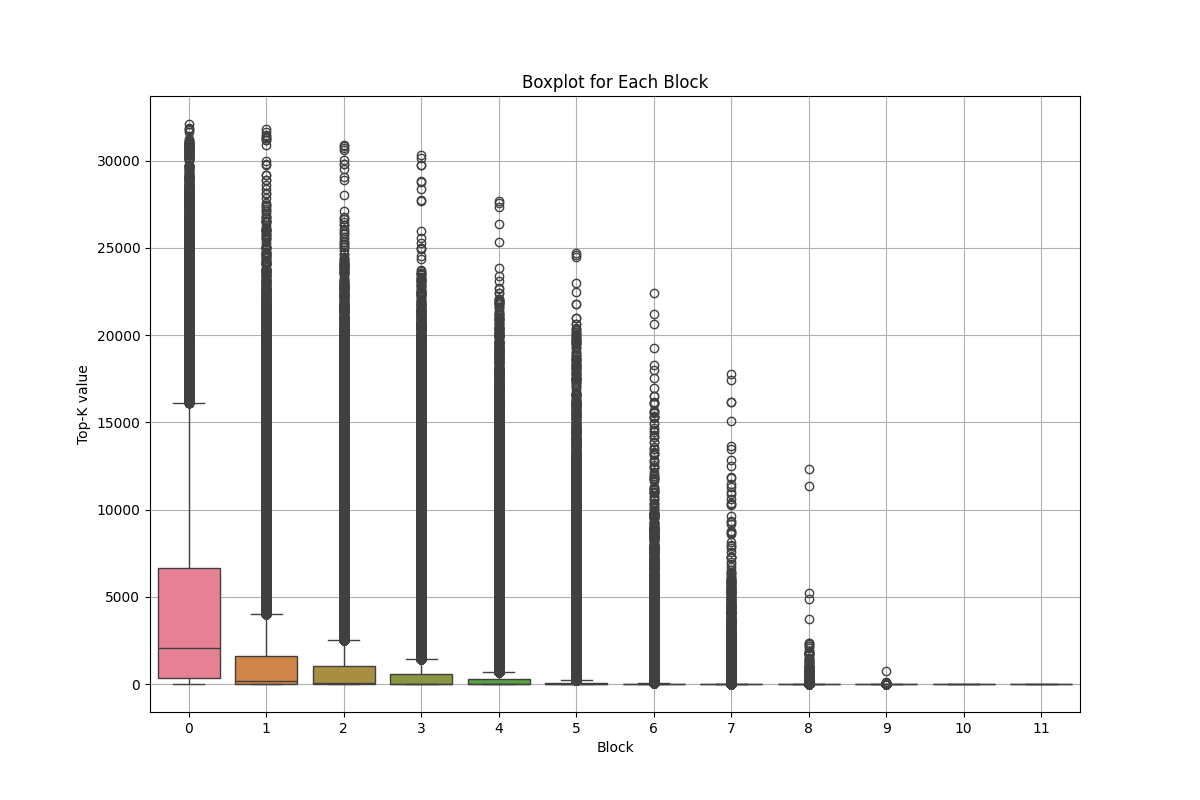
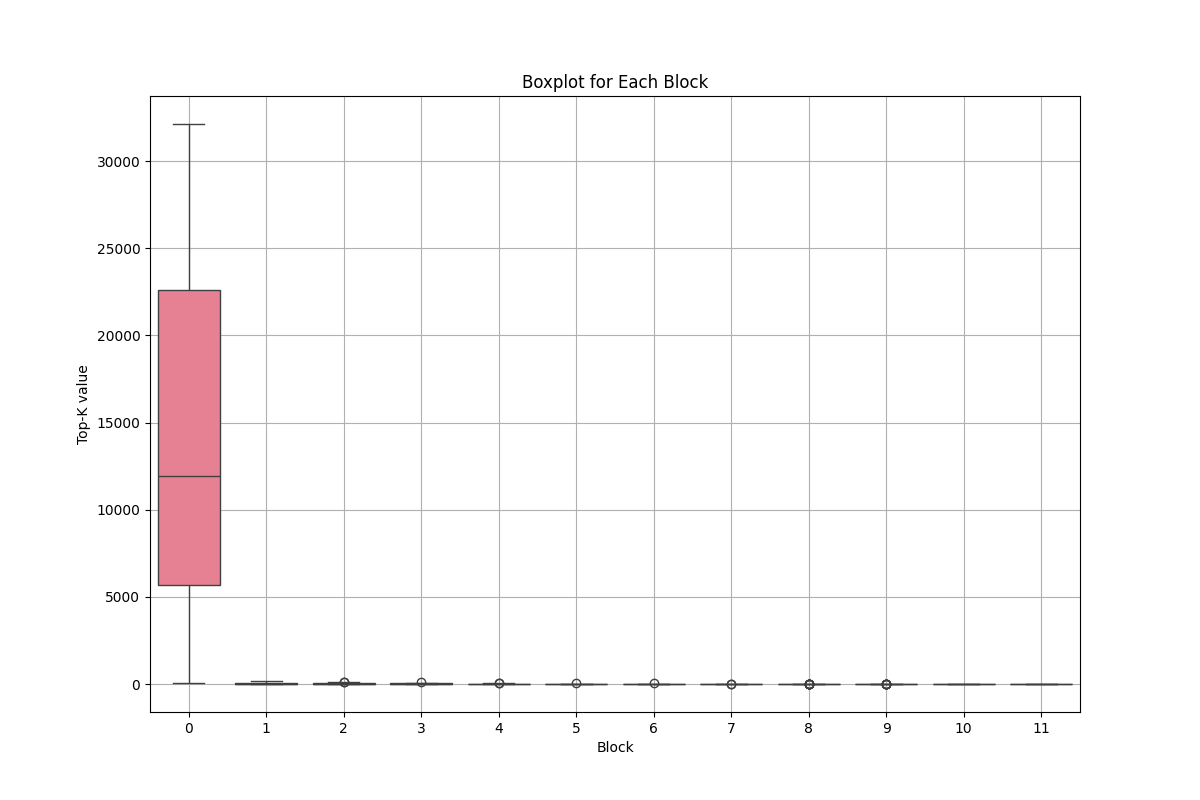
try 1

diff --git a/models/deploying_t5.py b/models/deploying_t5.py
@@ -547,6 +547,7 @@ class DeployT5Stack(T5Stack):
     def __init__(self, config, embed_tokens=None):
         super().__init__(config, embed_tokens)
         self.graph_top_k_list = []
+        self.top_k_indices = None
         
         self.embed_tokens = embed_tokens
         self.is_decoder = config.is_decoder
@@ -882,7 +883,7 @@ class DeployT5Stack(T5Stack):
             
             # check that tokens are generated once in a time
             auto_reg = True if hidden_states.shape[1] == 1 else False
-            if self.is_decoder and auto_reg and i == 0: self.block_op[i] += 1
+            if self.is_decoder and auto_reg and i == 0: self.block_op[i] += 1 # TO DO: Maybe implement the top_k here?
                             
             if self.is_decoder and auto_reg and i > 0:
                 
@@ -967,10 +968,29 @@ class DeployT5Stack(T5Stack):
                         self.block_op[i] += 1
                     else:
                         if self.config.use_synchronize: torch.cuda.synchronize()
-                        start = datetime.datetime.now()
+                        start = datetime.datetime.now() 
                         _hidden_states = self.dropout(self.final_layer_norm(hidden_states))
-                        lm_logits = lm_head(_hidden_states) if not self.config.tie_word_embeddings \
-                            else lm_head(_hidden_states * (self.config.d_model ** -0.5))
+
+                        _hidden_states = _hidden_states * (self.config.d_model ** -0.5) if self.config.tie_word_embeddings else _hidden_states
+
+                        # SHRINKING VOCAB PART: Get the top-200 logits at block 1. ==========================================
+
+                        if i == 1: # if it is the first layer
+                            lm_logits = lm_head(_hidden_states)
+                            # Get the top 200 logits at block 1.
+                            k = 200 # TO DO: DEFINED THIS AS ARGUMENT self.config.top_k when it works!!!
+                            _, self.top_k_indices = torch.topk(lm_logits, k, largest=True, sorted=True)
+                            self.top_k_indices = self.top_k_indices.flatten() # TO DO: Right now this is with one batch so this is allowed we need to check how this work with multiple batches etc.
+                            # print("top_k_indices at block 1 is", self.top_k_indices.shape)
+
+                        else: # For all the other layers
+                            selected_weights = lm_head.weight[self.top_k_indices, :]  # adjust dimensions
+                            # Note: There is no bias in self.lm_head = nn.Linear(config.d_model, config.vocab_size, bias=False)
+                            lm_logits = torch.matmul(_hidden_states, selected_weights.t()) # Get new logits with the top-200 weights
+                            
+                        # ====================================================================================================
+
+                        print("Logits at block", i, "with shape", lm_logits.shape)
 
                         ## then teh logit comparison needs to be done here
                         previous_logits.append(lm_logits)
@@ -995,6 +1015,8 @@ class DeployT5Stack(T5Stack):
 
                         if self.config.use_synchronize: torch.cuda.synchronize()
                         self.deploy_time['time_confidence'] += (datetime.datetime.now() - start)
+
+
                     
                 # Normal framework
                 elif (not self.use_shallow_deep and not self.use_early_exit):
